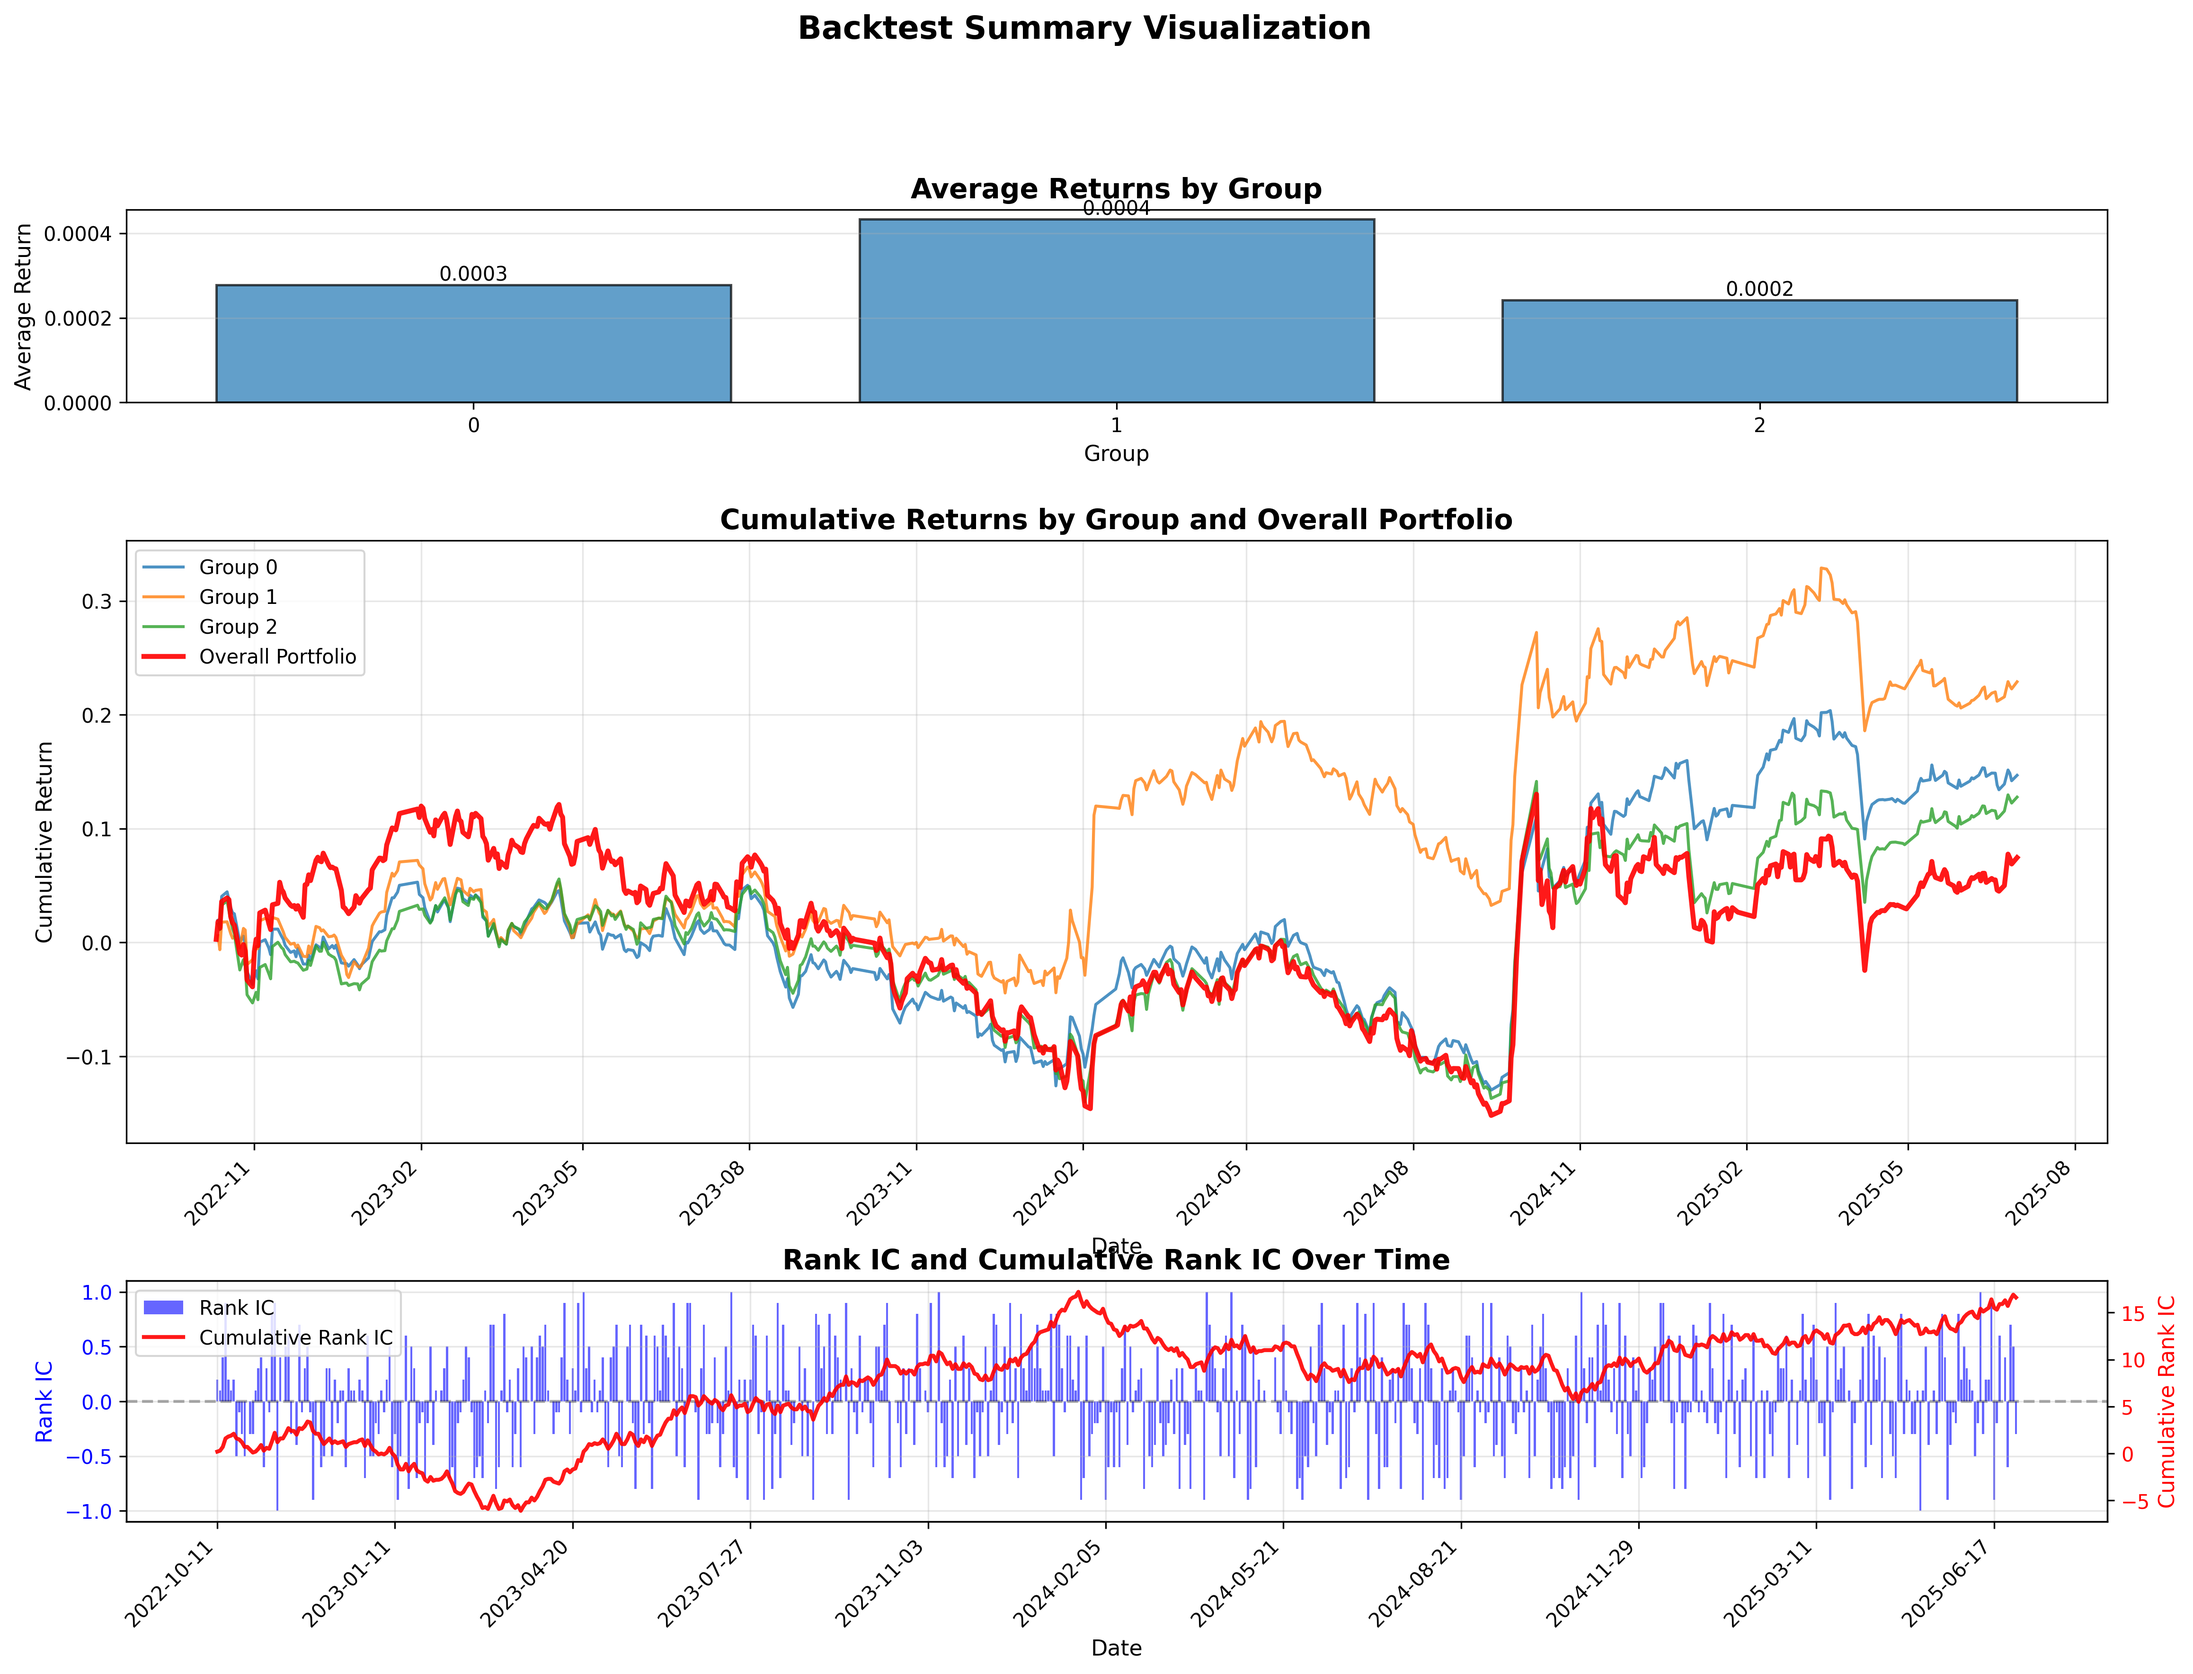
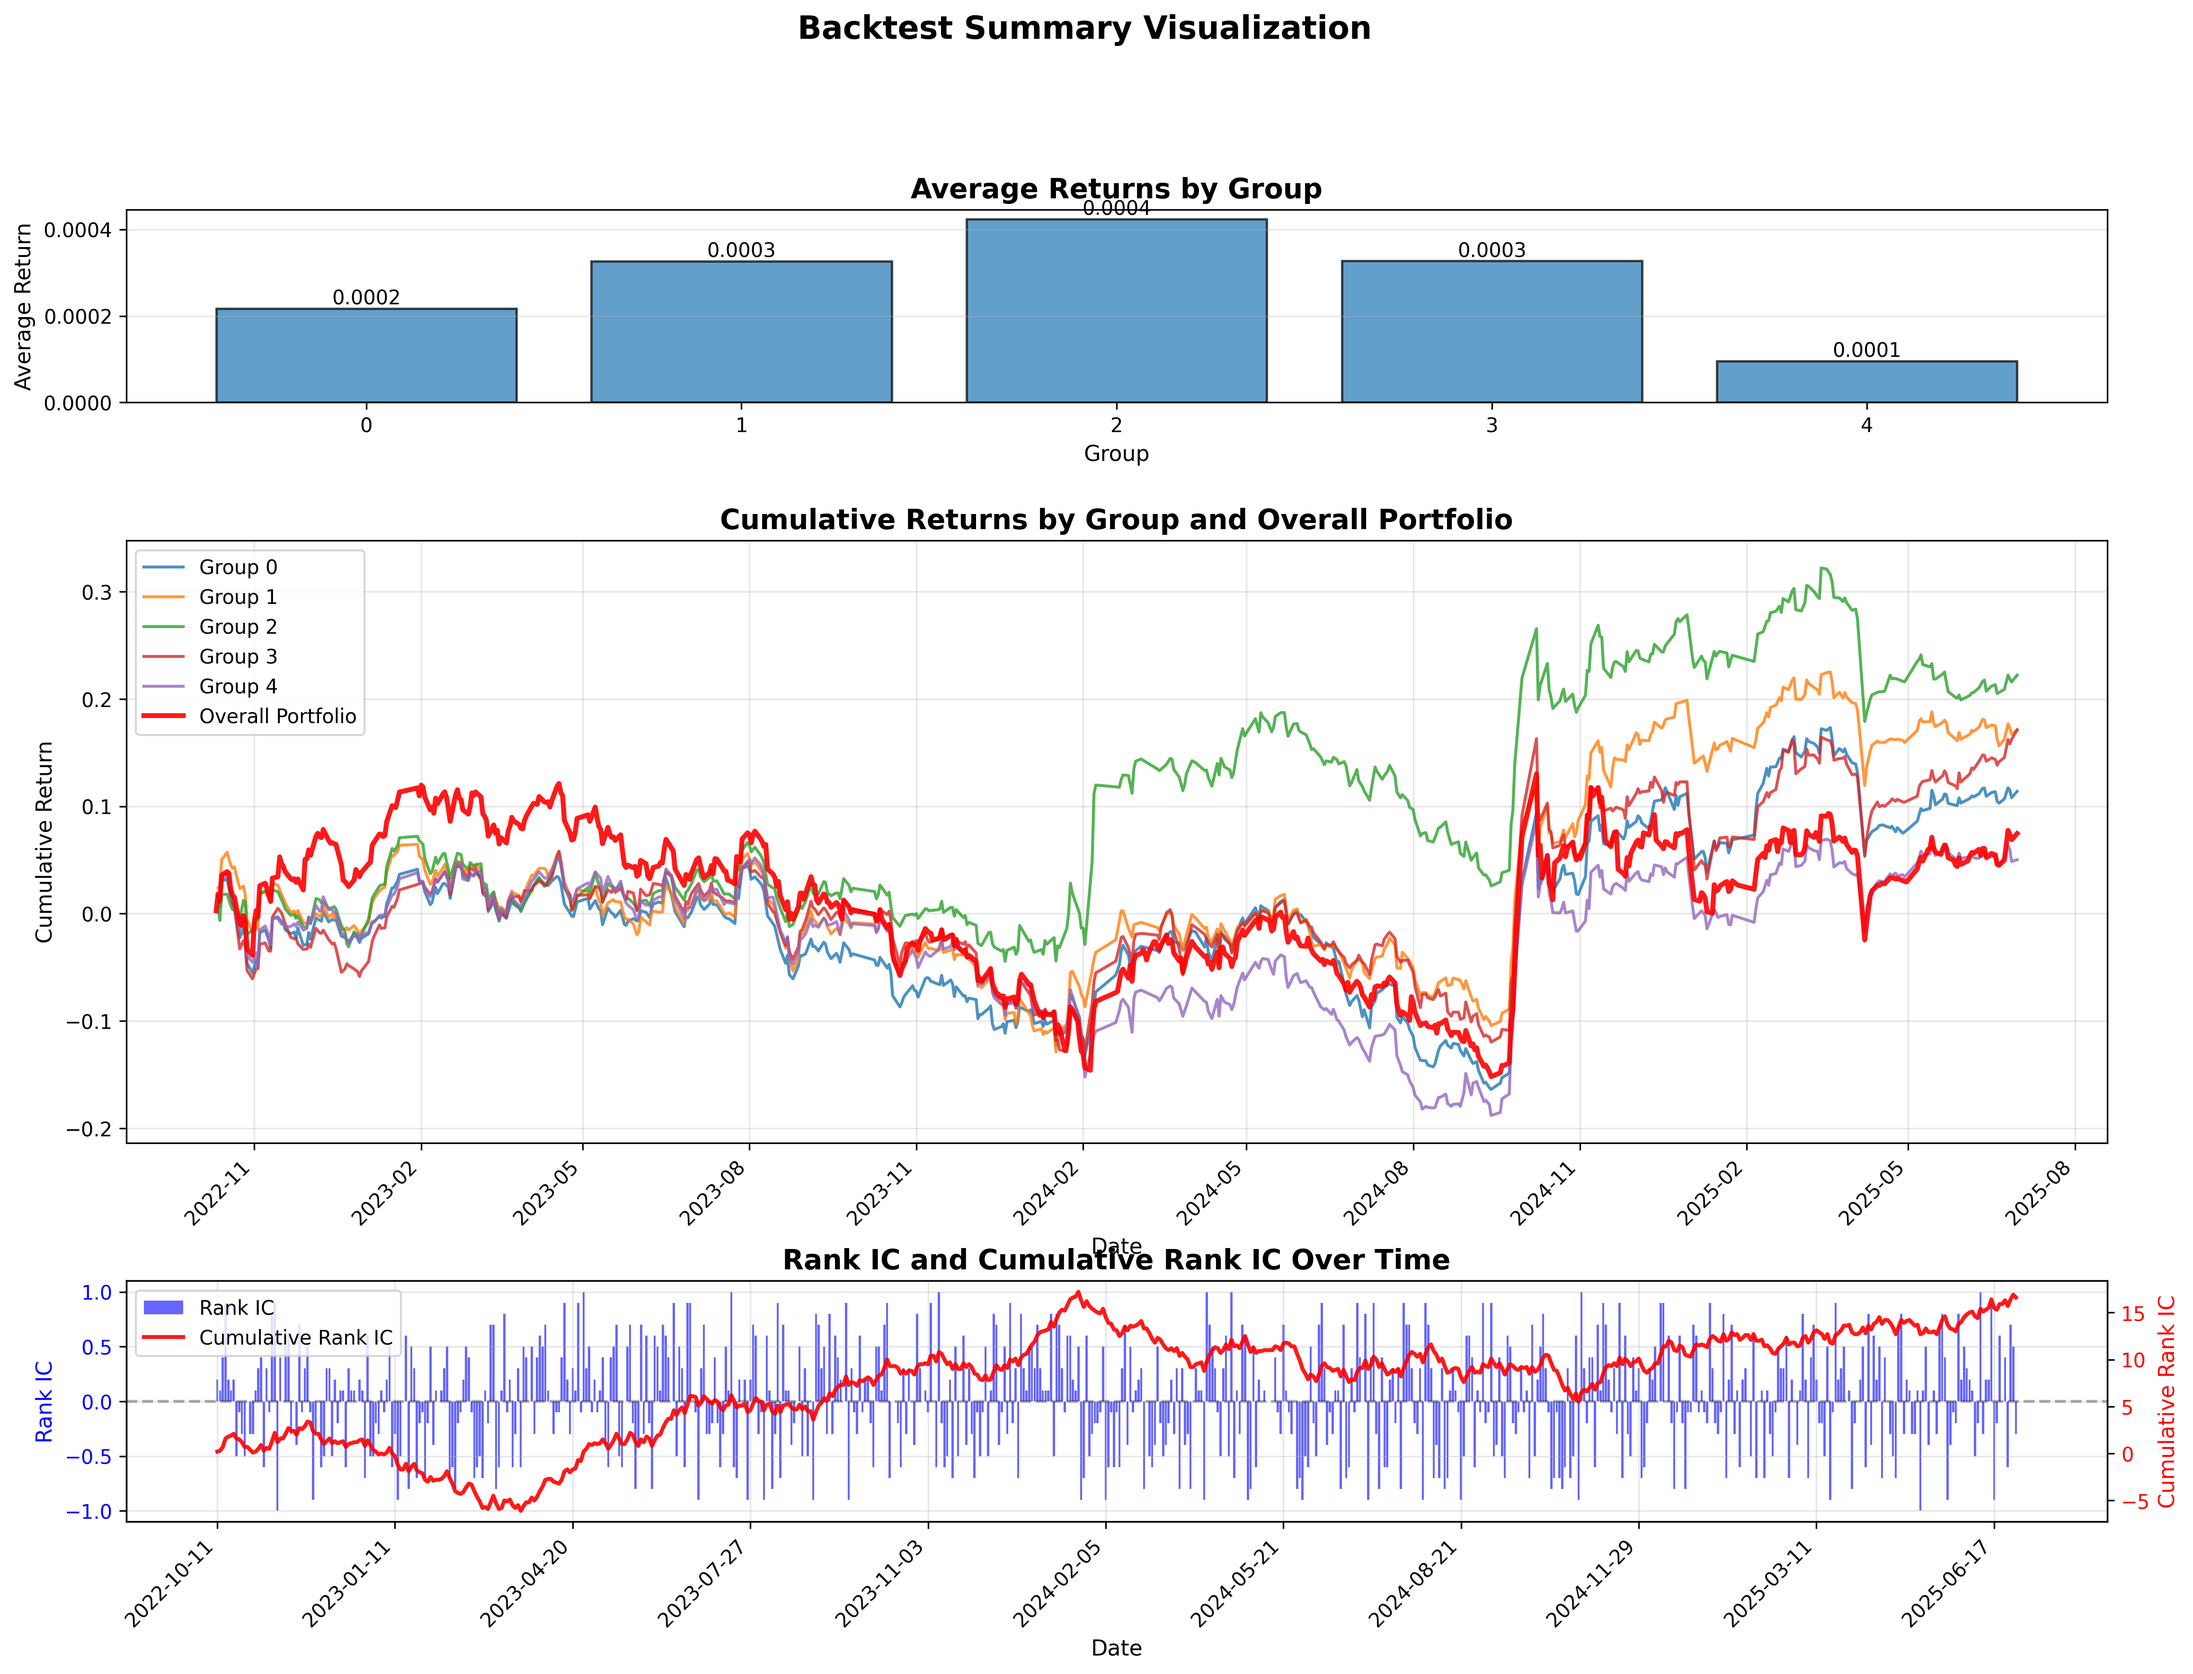
feat(backtest): increase number of groups from 3 to 5
Update backtest configuration to use 5 groups instead of 3 for more granular analysis. This change affects the grouping strategy and all related metrics and visualizations.

diff --git a/_backtest.py b/_backtest.py
@@ -1276,7 +1276,7 @@ if __name__ == "__main__":
             factor_df=factor_df,
             price_df=price_df,
             rebalance_period=5,
-            n_groups=3,
+            n_groups=5,
             weight_method="equal",
             need_plot=True,
             need_preprocess=True,
